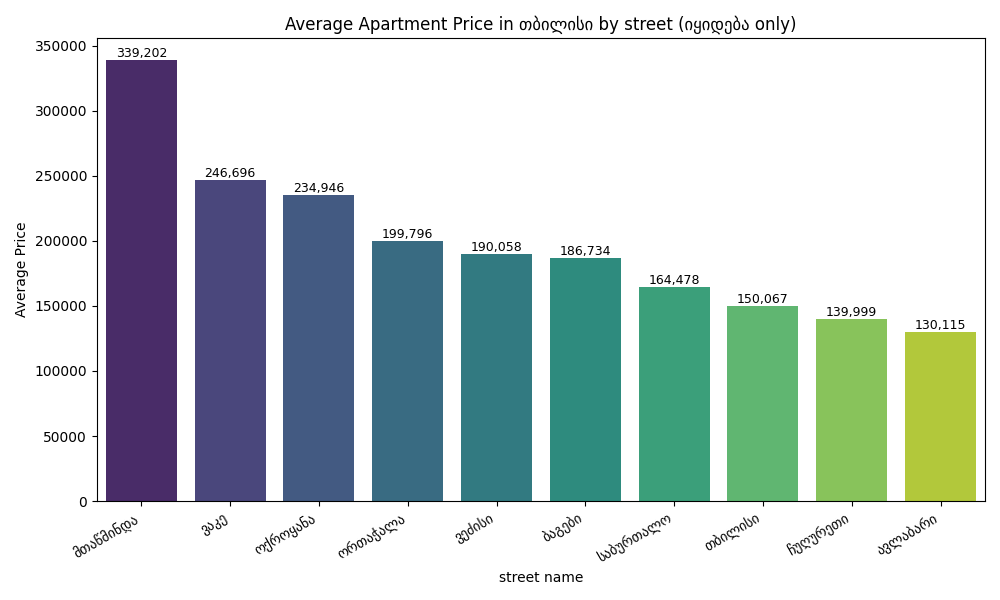
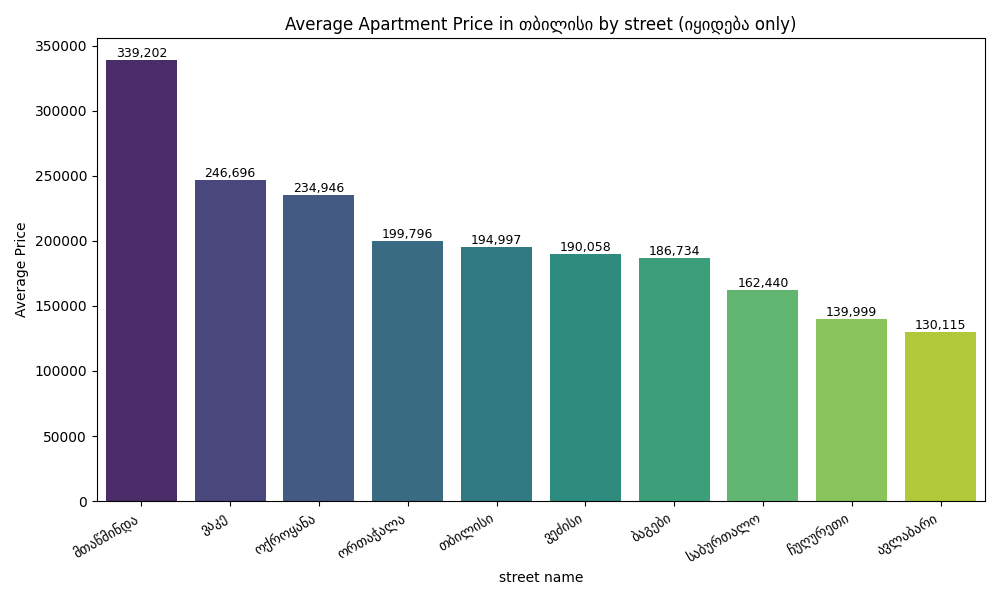
commit for more data, 8000 apartments

diff --git a/scrape_clean_analyze/scrapers/SSHomeScraper.py b/scrape_clean_analyze/scrapers/SSHomeScraper.py
@@ -10,7 +10,7 @@ class SSHomeScraper(BaseScraper):
         super().__init__()
         self.main_url = "https://home.ss.ge/ka/udzravi-qoneba/"
         self.city_id_dict = {'თბილისი': 95, "ქუთაისი": 97, 'ბათუმი': 96}  # Cities with ids on this website
-        self.number_of_pages_to_scrape = 5
+        self.number_of_pages_to_scrape = 10
         self.raw_apartments_csv_path = '../data_output/sshome_apartments.csv'
 
     def get_url(self, id, page):

diff --git a/scrape_clean_analyze/scrapers/MyHomeScraper.py b/scrape_clean_analyze/scrapers/MyHomeScraper.py
@@ -11,7 +11,7 @@ class MyHomeScraper(BaseScraper):
         super().__init__()
         self.main_url = "https://www.myhome.ge/"
         self.city_id_dict = {'თბილისი': 1, "ქუთაისი": 96, 'ბათუმი': 15}  # Cities with ids on this website
-        self.number_of_pages_to_scrape = 5
+        self.number_of_pages_to_scrape = 10
         self.raw_apartments_csv_path = '../data_output/myhome_apartments.csv'
 
     def get_url(self, id, page):

diff --git a/scrape_clean_analyze/scrapers/LivoScraper.py b/scrape_clean_analyze/scrapers/LivoScraper.py
@@ -9,7 +9,7 @@ class LivoScraper(BaseScraper):
         super().__init__()
         self.main_url = "https://livo.ge/"
         self.city_id_dict = {'თბილისი': 1, "ქუთაისი": 96, 'ბათუმი': 15}  # Cities with ids on this website
-        self.number_of_pages_to_scrape = 5
+        self.number_of_pages_to_scrape = 10
         self.raw_apartments_csv_path = '../data_output/livo_apartments.csv'
 
     def get_url(self, id, page):
